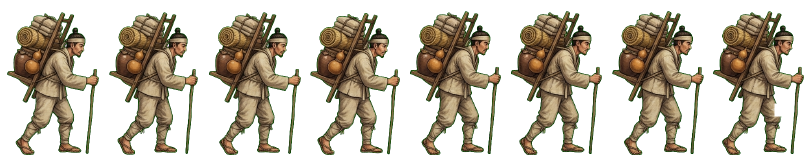
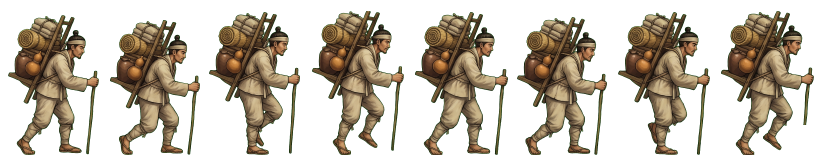
이주민 걷기 띠 다시 — 8컷이 다 같은 자세였다 (내딛기·무릎 들어 지나가기·발끝 오르기로 · 제미나이 4 Argon)
형 11-03: "왼다리를 땅에 디딘 그림만 8장 · 움직이는 모션이 전혀 아니야"
· tools/splice-walk.mjs — 20컷 띠의 걷기 8컷만 갈아 끼우는 도구 (장수 띠도 같은 병)

Claude-Session: https://claude.ai/code/session_01TRiuNBGbXbYg8PKZrR5zi4

diff --git a/src/realm/data/art.ts b/src/realm/data/art.ts
@@ -449,7 +449,7 @@ export const UNIT_ICON = {
  */
 export const SOL_ANIM2: Readonly<Record<string, number>> = { spear: 548 / 160, bow: 629 / 160, shield: 317 / 160, pike: 475 / 160, axe: 208 / 160, marine: 372 / 160, horse: 232 / 160, boat: 336 / 160, crossbow: 768 / 160 }
 /** 지도 길 위의 이주민 — 지게 진 사람 걷기 8컷 띠 (제미나이 11-03 · assets_src/realm/gemini/migrant · tools/strip-frames.mjs 4x2) · 칸 가로/세로 */
-export const MIGRANT_ANIM = { file: 'anim2/migrant.png', nf: 8, ar: 101 / 160 } as const
+export const MIGRANT_ANIM = { file: 'anim2/migrant.png', nf: 8, ar: 102 / 160 } as const
 export const SOL_ANIM_AR: Readonly<Record<string, number>> = { spear: 167 / 160, shield: 165 / 160, bow: 139 / 160, horse: 157 / 160, boat: 164 / 160, crossbow: 152 / 160, pike: 162 / 160, axe: 144 / 160, marine: 155 / 160 }
 
 /**
